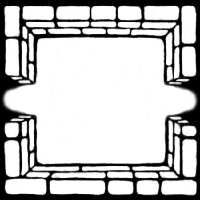
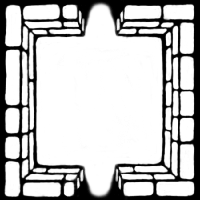
Rework hero/quest balance: lower HP, drop magic, dice-triggered abilities

Changed region(s): [[0.0, 0.0, 0.99, 0.99]]

diff --git a/js/encounters.js b/js/encounters.js
@@ -16,6 +16,34 @@ export function rollCombatDice() {
   return state.combatResult;
 }
 
+export function abilityDescription(ability) {
+  switch (ability.effect) {
+    case 'heal': return `Heal ${ability.value} HP`;
+    case 'bonusDamage': return `Deal +${ability.value} bonus damage`;
+    case 'reduceDamage': return `Reduce damage taken by ${ability.value}`;
+    case 'negateDamage': return 'Take no damage this turn';
+    default: return ability.effect;
+  }
+}
+
+export function applyAbility(ability, player, heroDamage, monsterDamage) {
+  switch (ability.effect) {
+    case 'heal': {
+      const healed = Math.min(player.hp - player.currentHp, ability.value || 0);
+      player.currentHp += healed;
+      return { heroDamage, monsterDamage, description: `Heal ${healed} HP` };
+    }
+    case 'bonusDamage':
+      return { heroDamage: heroDamage + (ability.value || 0), monsterDamage, description: `Deal +${ability.value} bonus damage` };
+    case 'reduceDamage':
+      return { heroDamage, monsterDamage: Math.max(0, monsterDamage - (ability.value || 0)), description: `Reduce damage taken by ${ability.value}` };
+    case 'negateDamage':
+      return { heroDamage, monsterDamage: 0, description: 'Take no damage this turn' };
+    default:
+      return { heroDamage, monsterDamage, description: ability.effect };
+  }
+}
+
 export function resolveEncounter() {
   if (!state.currentEncounter) return { message: 'No encounter.', type: 'hero', resolved: true };
 
@@ -27,13 +55,21 @@ export function resolveEncounter() {
     const monster = state.currentEncounter;
     const combat = state.combatResult || rollCombatDice();
 
-    const heroDamage = Math.max(0, combat.heroRoll + player.attack - monster.defense);
-    const monsterDamage = Math.max(0, combat.monsterRoll + monster.attack - player.defense);
+    let heroDamage = Math.max(0, combat.heroRoll + player.attack - monster.defense);
+    let monsterDamage = Math.max(0, combat.monsterRoll + monster.attack - player.defense);
+
+    const messages = [];
+    const ability = (player.abilities || []).find(a => a.roll === combat.heroRoll);
+    if (ability) {
+      const result = applyAbility(ability, player, heroDamage, monsterDamage);
+      heroDamage = result.heroDamage;
+      monsterDamage = result.monsterDamage;
+      messages.push(`[${ability.roll}] ${ability.name}: ${result.description}`);
+    }
 
     monster.currentHp = (monster.currentHp || monster.hp) - heroDamage;
     player.currentHp -= monsterDamage;
 
-    const messages = [];
     messages.push(`You rolled ${combat.heroRoll} + ${player.attack} ATK - ${monster.defense} DEF = ${heroDamage} damage`);
     messages.push(`${monster.name} rolled ${combat.monsterRoll} + ${monster.attack} ATK - ${player.defense} DEF = ${monsterDamage} damage`);
 

diff --git a/js/board.js b/js/board.js
@@ -5,6 +5,7 @@
 import { state } from './state.js';
 import { posKey, parseKey, getDirDelta, getOppositeDir, rotateExits, getRotationLabel } from './utils.js';
 import { PLAYER_COLORS } from './data.js';
+import { abilityDescription } from './encounters.js';
 
 export function getAdjacentEmptyTiles(row, col) {
   const dirs = ['north', 'south', 'west', 'east'];
@@ -307,10 +308,13 @@ export function renderHeroes() {
   state.players.forEach((player, index) => {
     const div = document.createElement('div');
     div.className = 'hero-card' + (index === state.currentPlayer ? ' active' : '');
+    const ability = (player.abilities || [])[0];
+    const abilityText = ability ? `[${ability.roll}] ${ability.name}: ${abilityDescription(ability)}` : '';
     div.innerHTML = `
       <div class="name" style="color:${PLAYER_COLORS[index]}">${player.name}</div>
       <div class="stats">HP: ${player.currentHp}/${player.hp} | ATK: ${player.attack} | DEF: ${player.defense}</div>
       <div class="stats">Gold: ${player.gold}</div>
+      ${abilityText ? `<div class="stats ability">${abilityText}</div>` : ''}
     `;
     container.appendChild(div);
   });

diff --git a/js/data.js b/js/data.js
@@ -14,10 +14,10 @@ export const fallbackRoomCards = [
 ];
 
 export const fallbackHeroes = [
-  { class: 'warrior', name: 'Warrior', hp: 30, attack: 8, defense: 5, magic: 2 },
-  { class: 'wizard', name: 'Wizard', hp: 20, attack: 4, defense: 3, magic: 10 },
-  { class: 'rogue', name: 'Rogue', hp: 25, attack: 7, defense: 3, magic: 3 },
-  { class: 'cleric', name: 'Cleric', hp: 28, attack: 5, defense: 4, magic: 7 }
+  { class: 'warrior', name: 'Warrior', hp: 12, attack: 5, defense: 4, abilities: [{ roll: 3, name: 'Iron Guard', effect: 'reduceDamage', value: 3 }] },
+  { class: 'cleric', name: 'Cleric', hp: 10, attack: 4, defense: 3, abilities: [{ roll: 1, name: 'Healing Strike', effect: 'heal', value: 3 }] },
+  { class: 'rogue', name: 'Rogue', hp: 8, attack: 6, defense: 2, abilities: [{ roll: 6, name: 'Dodge', effect: 'negateDamage' }] },
+  { class: 'wizard', name: 'Wizard', hp: 6, attack: 5, defense: 1, abilities: [{ roll: 4, name: 'Fireball', effect: 'bonusDamage', value: 4 }] }
 ];
 
 export async function loadRoomCards() {

diff --git a/css/styles.css b/css/styles.css
@@ -162,6 +162,10 @@ section h2 {
   color: #a0a0a0;
 }
 
+.hero-card .stats.ability {
+  color: #ffd700;
+}
+
 #deck-panel {
   flex: 1;
 }
